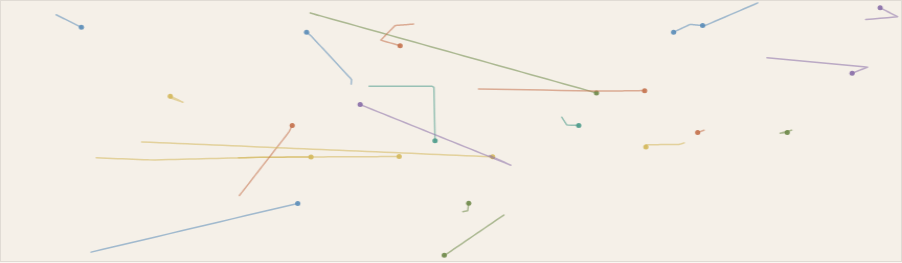
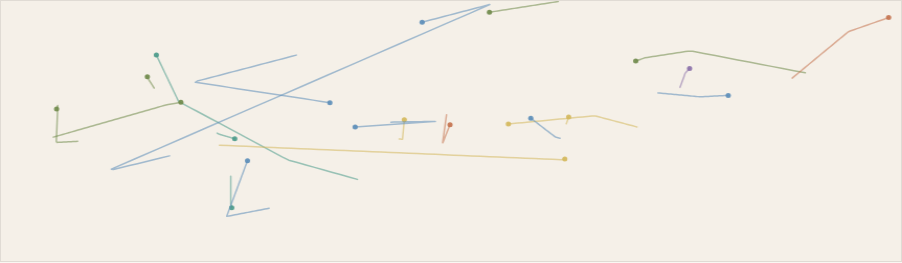
sound: keep the unphrased bed at full level, and weight the heading by distance
Both from review on #487.

The phrase envelope's own node was created at the level a settled note
relaxes to. With phrasing off nothing ever articulates it, so every voice
in the supposedly untouched fallback path sat 40% quieter for the life of
the scene — and turning phrasing off mid-scene left each voice parked at
whatever its last note happened to settle to, with nothing left that
would ever lift it again. The node now starts at unity, the envelope is
modelled from the level actually sounding rather than from a fixed floor
(so re-articulating a settled line is continuous instead of a dip and a
jump), and switching phrasing off hands every sounding voice back to
unity, drops its octave layer and its velocity reverb, and clears its
phrasing state.

The heading EMA normalized every non-zero frame to a unit vector, which
gave a sub-pixel twitch exactly the same say in the direction as a
full-speed frame. The speed EMA takes several frames to drain after a
fast gesture, so during that drain a hand coming to rest still counts as
moving — and jitter alone could rotate the held heading through 76
degrees and earn a note nobody gestured. Smoothing the real velocity
components instead weights each frame by how far it actually travelled;
the same jitter now moves the heading under 6 degrees and takes no note.

Tests cover both: the unphrased path is asserted to leave no gain node
parked under unity (the old assertion only checked that no envelope ran,
[…]

diff --git a/extension/website/shared/sound/phrasing.ts b/extension/website/shared/sound/phrasing.ts
@@ -46,6 +46,13 @@ export interface PhrasingState {
   articulation: number;
   /** Tick time the articulation envelope was last re-struck. */
   articulationStartedMs: number;
+  /**
+   * Where the envelope stood when the current note struck, so the attack is
+   * modelled from the level actually sounding rather than from a fixed
+   * constant. The audio ramp starts from whatever the param holds; this has to
+   * say the same thing or the drawing and the sound drift apart.
+   */
+  articulationFrom: number;
   /** Smoothed 0-1 bloom amount, so the octave layer crossfades rather than steps. */
   bloom: number;
 }
@@ -61,8 +68,11 @@ export const createPhrasingState = (elapsedMs: number): PhrasingState => ({
   stateSinceMs: elapsedMs,
   stillSinceMs: elapsedMs,
   recent: [],
-  articulation: PHRASING_TUNING.articulationRestLevel,
+  // Neutral until a note strikes: an unarticulated voice is at full level, not
+  // at the level a settled one relaxes to.
+  articulation: 1,
   articulationStartedMs: Number.NEGATIVE_INFINITY,
+  articulationFrom: 1,
   bloom: 0,
 });
 
@@ -89,25 +99,37 @@ export function advanceMotion(
   const distance = Math.hypot(scaledX, scaledY);
   state.speed = ema(state.speed, distance, speedAlpha);
   if (distance > 0) {
-    // The unit vector, so a fast frame does not out-vote a slow one on
-    // direction. Magnitude is already carried by `speed`.
-    const unitX = scaledX / distance;
-    const unitY = scaledY / distance;
+    // The velocity components as they are, *not* normalized to a unit vector.
+    //
+    // Normalizing gave a sub-pixel twitch exactly the same say in the heading
+    // as a full-speed frame, and the speed EMA takes several frames to drain
+    // after a fast run — so a hand coming to rest could spin the held heading
+    // through a right angle on jitter alone and earn itself a note it never
+    // gestured. Smoothing the real components weights each frame by how far it
+    // actually travelled, which is what makes the heading a gesture's
+    // direction rather than the last twitch's.
     if (!state.hasHeading) {
-      state.headingX = unitX;
-      state.headingY = unitY;
+      state.headingX = scaledX;
+      state.headingY = scaledY;
       state.hasHeading = true;
     } else {
-      state.headingX = ema(state.headingX, unitX, headingAlpha);
-      state.headingY = ema(state.headingY, unitY, headingAlpha);
+      state.headingX = ema(state.headingX, scaledX, headingAlpha);
+      state.headingY = ema(state.headingY, scaledY, headingAlpha);
     }
   }
 }
 
-/** The smoothed heading as an angle, or null while the vector is too small to mean anything. */
+/**
+ * The smoothed heading as an angle, or null while the vector is too small to
+ * mean anything.
+ *
+ * The vector now carries magnitude as well as direction, so the floor is in
+ * the same units as speed: well under what counts as moving, because every
+ * caller that acts on a heading already gates on speed itself.
+ */
 export function headingAngle(state: PhrasingState): number | null {
   const magnitude = Math.hypot(state.headingX, state.headingY);
-  if (magnitude < 1e-3) return null;
+  if (magnitude < PHRASING_TUNING.moveMinSpeed * 0.1) return null;
   return Math.atan2(state.headingY, state.headingX);
 }
 
@@ -146,8 +168,9 @@ export function turnDecision(
 export function beginNote(state: PhrasingState, elapsedMs: number): void {
   state.noteHeading = headingAngle(state) ?? state.noteHeading;
   state.noteStartedMs = elapsedMs;
+  state.articulationFrom = articulationAt(state, elapsedMs);
   state.articulationStartedMs = elapsedMs;
-  state.articulation = 1;
+  state.articulation = state.articulationFrom;
 }
 
 /**
@@ -178,16 +201,15 @@ export function articulationAt(
     articulationSettleDelayMs,
     articulationSettleLevel,
     articulationSettleTimeConstant,
-    articulationRestLevel,
   } = PHRASING_TUNING;
-  if (state.articulationStartedMs === Number.NEGATIVE_INFINITY) {
-    return articulationRestLevel;
-  }
+  // A voice that has never taken a note is at full level, so phrasing off —
+  // where no note ever strikes — leaves the line exactly as loud as it was.
+  if (state.articulationStartedMs === Number.NEGATIVE_INFINITY) return 1;
   const age = elapsedMs - state.articulationStartedMs;
-  if (age < 0) return articulationRestLevel;
+  if (age < 0) return state.articulationFrom;
   if (age < articulationAttackMs) {
     const progress = age / articulationAttackMs;
-    return articulationRestLevel + (1 - articulationRestLevel) * progress;
+    return state.articulationFrom + (1 - state.articulationFrom) * progress;
   }
   const settleAge = (age - articulationSettleDelayMs) / 1000;
   if (settleAge <= 0) return 1;

diff --git a/extension/website/shared/sound/__tests__/SoundEngine.test.ts b/extension/website/shared/sound/__tests__/SoundEngine.test.ts
@@ -5878,14 +5878,58 @@ describe("phrasing", () => {
 
     walk(engine, 0, { x: 200, y: 300 }, { x: 6, y: 0 }, 60, 0);
 
-    // Nothing phrased ran: no articulation curve, no motion state to read, and
-    // no bloom oscillator beyond the voice's own.
+    // Nothing phrased ran: no articulation curve and no motion state to read.
     expect(engine.getArticulation(0)).toBeNull();
     const settles = createdNodes
       .filter((node): node is TestGainNode => node instanceof TestGainNode)
       .flatMap((node) => node.gain.events)
       .filter((event) => event.method === "setTarget");
     expect(settles).toHaveLength(0);
+
+    // And no gain node sits below unity purely because the phrase envelope
+    // exists. The envelope multiplies the voice's own gain, so a node parked
+    // at the settled level with nothing ever articulating it would quietly
+    // take 40% off the whole bed — which is what "exactly as it was" is really
+    // asserting.
+    const parkedBelowUnity = createdNodes
+      .filter((node): node is TestGainNode => node instanceof TestGainNode)
+      .filter((node) => {
+        const events = node.gain.events;
+        if (events.length !== 1 || events[0].method !== "set") return false;
+        const value = events[0].value ?? 0;
+        return value > 0 && value < 1;
+      });
+    expect(parkedBelowUnity).toHaveLength(0);
+    engine.dispose();
+  });
+
+  it("hands a sounding voice back to full level when phrasing is turned off", async () => {
+    const engine = new SoundEngine();
+    await engine.init();
+    engine.setConfig({ phrasing: true });
+    engine.setCanvasWidth(1000);
+
+    const run = walk(engine, 0, { x: 200, y: 300 }, { x: 6, y: 0 }, 40, 0);
+    walk(engine, 0, run, { x: 0, y: 6 }, 60, run.ms);
+
+    // The voice is mid-settle, so its envelope is somewhere under unity.
+    const articulation = engine.getArticulation(0);
+    expect(articulation).not.toBeNull();
+    expect(articulation!).toBeLessThan(1);
+
+    engine.setConfig({ phrasing: false });
+
+    // Turning phrasing off must not leave the bed parked at whatever level the
+    // last note happened to settle to — nothing will ever articulate it again.
+    const restored = createdNodes
+      .filter((node): node is TestGainNode => node instanceof TestGainNode)
+      .some((node) =>
+        node.gain.events.some(
+          (event) => event.method === "linearRamp" && event.value === 1,
+        ),
+      );
+    expect(restored).toBe(true);
+    expect(engine.getArticulation(0)).toBeNull();
     engine.dispose();
   });
 });

diff --git a/extension/website/shared/sound/__tests__/phrasing.test.ts b/extension/website/shared/sound/__tests__/phrasing.test.ts
@@ -62,6 +62,26 @@ describe("smoothed motion", () => {
     expect(angleDiffDegrees(before!, after!)).toBeLessThan(15);
   });
 
+  it("does not let jitter after a fast run steal the heading", () => {
+    // The speed EMA takes several frames to drain after a fast gesture, so
+    // during that drain a cursor that has effectively stopped is still "moving"
+    // as far as the turn test is concerned. Weighting the heading by how far
+    // each frame actually travelled is what stops a sub-pixel twitch from
+    // rotating the line and earning a note nobody gestured.
+    const state = createPhrasingState(0);
+    let now = travel(state, 12, 0, 60);
+    beginNote(state, now);
+    const held = headingAngle(state)!;
+    for (let i = 0; i < 20; i++) {
+      now += 16;
+      advanceMotion(state, 0.01, 0.05, 1);
+      expect(turnDecision(state, now)).toBeNull();
+    }
+    expect(angleDiffDegrees(held, headingAngle(state)!)).toBeLessThan(
+      PHRASING_TUNING.turnDegrees,
+    );
+  });
+
   it("normalizes speed against the frame the sample actually spans", () => {
     // A replay running at half rate travels twice as far per frame; without
     // the scale that reads as a trail moving twice as fast.
@@ -145,11 +165,10 @@ describe("articulation", () => {
   it("swells to full on a note and then relaxes toward the settled level", () => {
     const state = createPhrasingState(0);
     travel(state, 6, 0, 20);
+    // Neutral before the first note, so a voice that is never articulated —
+    // every voice, with phrasing off — sounds at exactly its own gain.
+    expect(articulationAt(state, 999)).toBe(1);
     beginNote(state, 1000);
-    expect(articulationAt(state, 1000)).toBeCloseTo(
-      PHRASING_TUNING.articulationRestLevel,
-      5,
-    );
     expect(articulationAt(state, 1000 + PHRASING_TUNING.articulationAttackMs))
       .toBeCloseTo(1, 5);
     const settling = articulationAt(state, 2500);
@@ -169,6 +188,10 @@ describe("articulation", () => {
     beginNote(state, 1000);
     const settled = articulationAt(state, 4000);
     beginNote(state, 4000);
+    // The attack climbs from the level actually sounding, not from a fixed
+    // floor, so re-articulating a settled line is continuous rather than a dip
+    // followed by a jump.
+    expect(articulationAt(state, 4000)).toBeCloseTo(settled, 5);
     expect(articulationAt(state, 4000 + PHRASING_TUNING.articulationAttackMs))
       .toBeGreaterThan(settled);
   });

diff --git a/extension/website/shared/sound/SoundEngine.ts b/extension/website/shared/sound/SoundEngine.ts
@@ -2176,6 +2176,23 @@ export class SoundEngine {
 
     // Turning the arc off must hand the reverb back to its fixed default,
     // otherwise it stays frozen at whatever the last energy value set.
+    // Phrasing turned off mid-scene leaves every voice holding whatever level
+    // its last note settled to, so the bed stays quiet until something
+    // articulates it again — which, with phrasing off, nothing ever does. The
+    // node is handed back to unity here rather than on the next tick, which a
+    // paused canvas may never run.
+    if (config.phrasing === false) {
+      for (const [trailIndex, voice] of this.voices) {
+        this.rampParam(voice.articulationNode.gain, 1, FORMANT_TOGGLE_SECONDS);
+        if (voice.lingerDeveloped) this.settleFromLinger(voice);
+        this.releaseBloom(voice);
+        if (voice.reverbSend && !voice.present) {
+          this.rampParam(voice.reverbSend.gain, 1, FORMANT_TOGGLE_SECONDS);
+        }
+        this.phrasings.delete(trailIndex);
+      }
+    }
+
     if (config.energyArc === false && this.reverbGain) {
       this.energy = 0;
       this.lastEnergyTickMs = null;
@@ -3387,12 +3404,11 @@ export class SoundEngine {
     this.parameterAutomation.set(fade.gain, 1, now);
     // The phrase envelope multiplies the motion-following gain. See
     // `Voice.articulationNode`.
+    // At unity until a note strikes it. Anything else would mean the voice is
+    // quieter than its gain says purely because this node exists — which with
+    // phrasing off, where no note ever strikes, would be the whole bed.
     const articulation = ctx.createGain();
-    this.parameterAutomation.set(
-      articulation.gain,
-      PHRASING_TUNING.articulationRestLevel,
-      now,
-    );
+    this.parameterAutomation.set(articulation.gain, 1, now);
     filter.connect(gain);
     gain.connect(articulation);
     articulation.connect(fade);

diff --git a/extension/website/shared/sound/tuning.ts b/extension/website/shared/sound/tuning.ts
@@ -53,8 +53,6 @@ export const PHRASING_TUNING = {
   articulationSettleDelayMs: 50,
   articulationSettleLevel: 0.6,
   articulationSettleTimeConstant: 1.5,
-  /** Where a voice's articulation starts before its first note. */
-  articulationRestLevel: 0.6,
 
   /**
    * The octave "bloom": a quiet ×2 layer crossfaded in with speed, replacing
